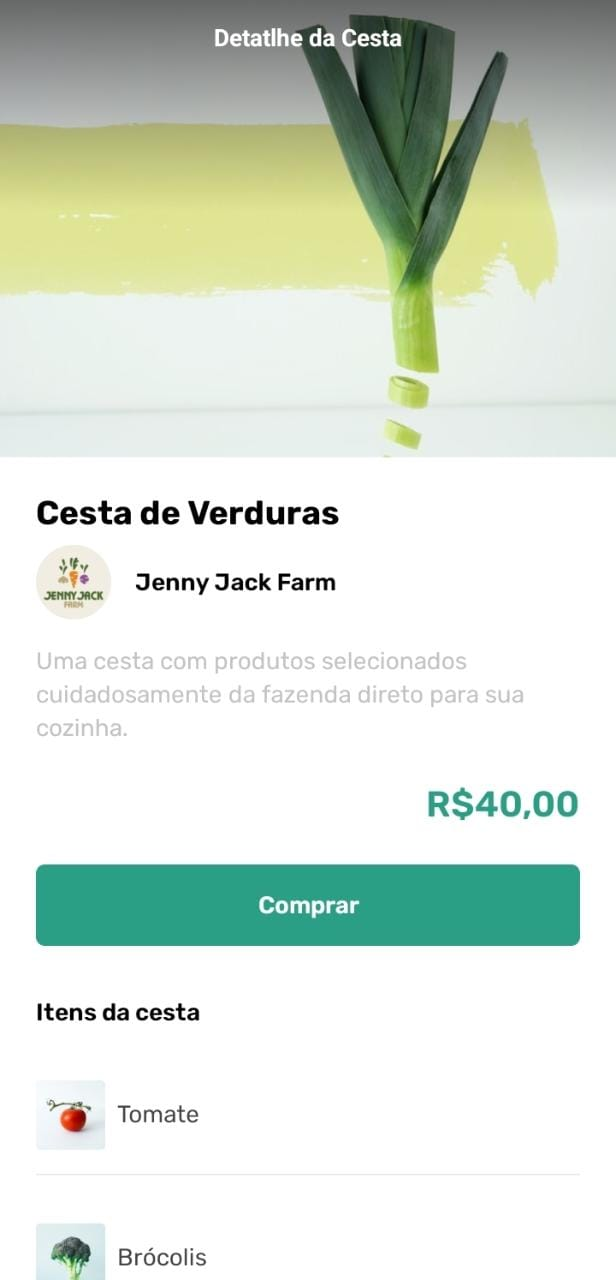
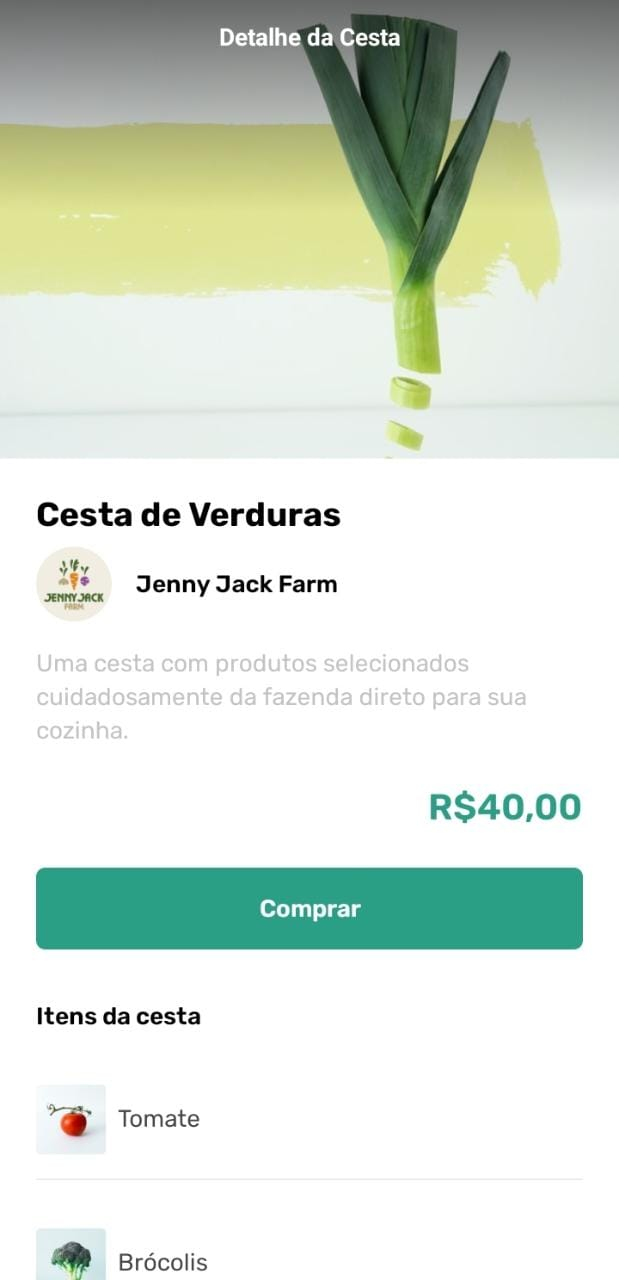
fix(header): correcao do texto e screen

diff --git a/src/mocks/cesta.js b/src/mocks/cesta.js
@@ -7,7 +7,7 @@ import abobora from '../../assets/frutas/Abóbora.png';
 
 const cesta = {
     top: {
-        title: "Detatlhe da Cesta",
+        title: "Detalhe da Cesta",
     },
     detail: {
         name: "Cesta de Verduras",
